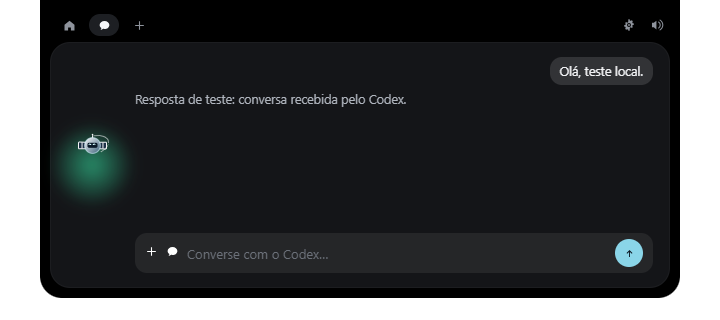
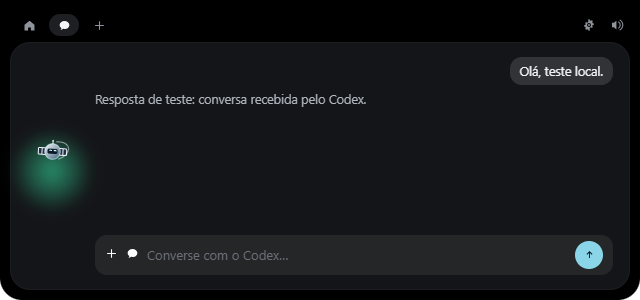
Refresh actual island captures and record packaged validation

Changed region(s): [[0.0, 0.0, 1.0, 1.0], [0.1562, 0.3, 0.5625, 0.36], [0.1562, 0.75, 0.4688, 0.87]]

diff --git a/VALIDATION.md b/VALIDATION.md
@@ -24,3 +24,5 @@ Reviewed 2026-10-01. Local implementation and source desktop tests passed. Micro
 
 The parity reference is Coucou Windows at the source commit in NOTICE.md. PARITY.md records platform differences and explicit attachment limits.
 The packaged ASAR was also exercised through the development Electron runtime: chat, text/PDF attachments and approval UI passed. This validates archive contents, not corporate Defender acceptance or installed MSIX behavior.
+
+Final delivery checks: GitHub Actions run 36865298048 passed on Windows, including the packaged executable desktop test. After relocation to the requested project folder, a full packaged-ASAR run also passed and refreshed the cropped island screenshots. The first relocation run could not discover Node (hook installation remained disabled); a repeat passed without code/configuration changes. This intermittent discovery failure remains an operational limitation to investigate if it recurs.
